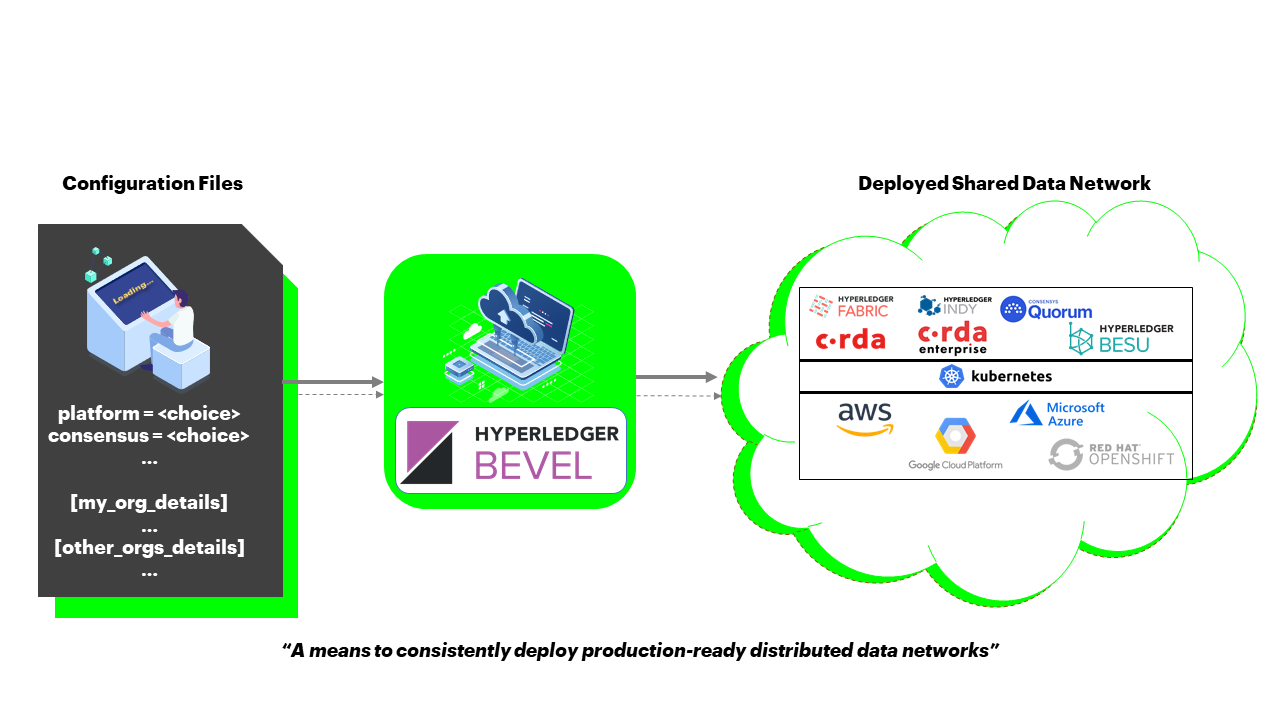
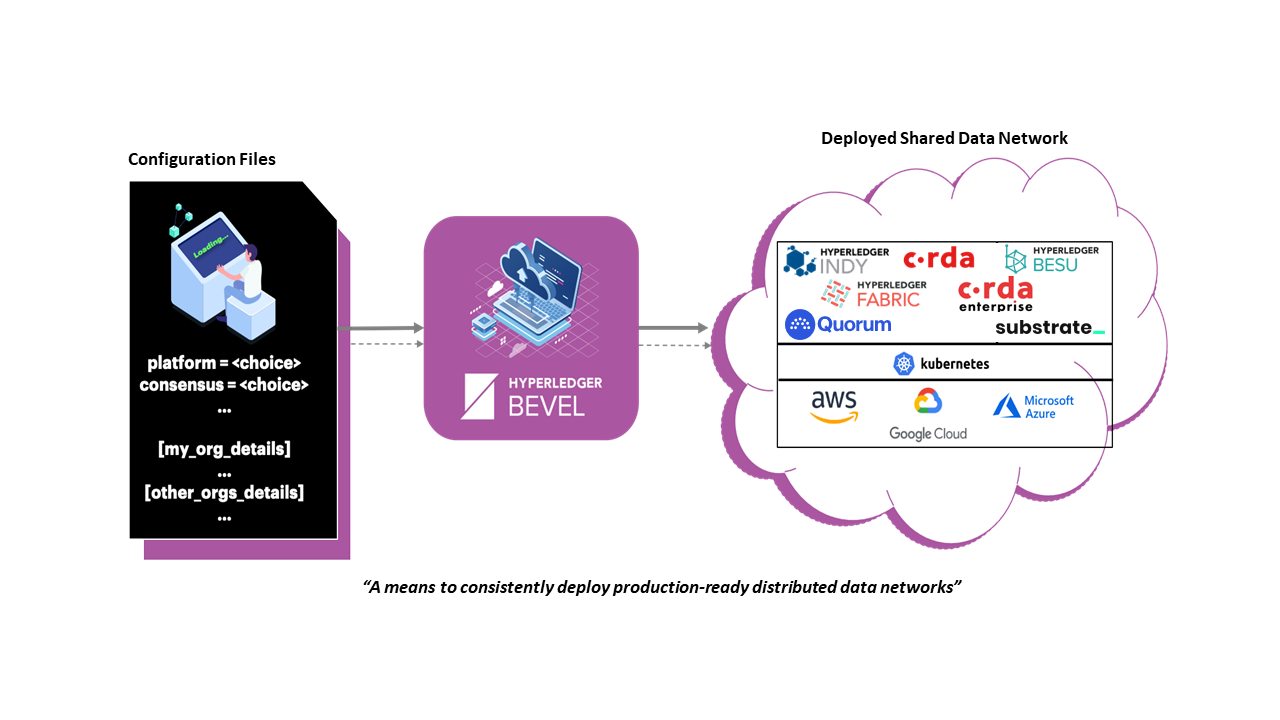
update readme

diff --git a/README.md b/README.md
@@ -1,7 +1,4 @@
 # Hyperledger Bevel [![join the chat][chat-image]][chat-url]
-<!-- ALL-CONTRIBUTORS-BADGE:START - Do not remove or modify this section -->
-[![All Contributors](https://img.shields.io/badge/all_contributors-6-orange.svg?style=flat-square)](#contributors-)
-<!-- ALL-CONTRIBUTORS-BADGE:END -->
 
 [chat-url]: https://discord.gg/hyperledger
 [chat-image]: https://img.shields.io/discord/905194001349627914?logo=Hyperledger&style=plastic.svg
@@ -31,9 +28,18 @@ Hyperledger Bevel delivers an automation framework for rapidly and consistently 
 
 ![What is Hyperledger Bevel?](./docs/images/hyperledger-bevel-overview.png "What is Hyperledger Bevel?")
 
-Hyperledger Bevel makes use of Ansible, Helm, and Kubernetes to deploy production DLT networks. Specifically, it makes use of Ansible for configuration of the network by DevOps Engineers. It then uses Helm charts as instructions for deploying the necessary components to Kubernetes. Kubernetes was chosen to allow for Hyperledger Bevel to deploy the DLT networks to any cloud that supports Kubernetes.
+Hyperledger Bevel is an accelerator/tool that helps developers rapidly set up and deploy secure, scalable and production-ready DLT network(s) that also allows new organizations to be easily on-boarded on the network. Bevel facilitates a safe and secure way of deploying and operating different DLT platforms.
 
-Hyperledger Bevel currently supports Corda, Hyperledger Fabric, Hyperledger Indy and Quorum. It is the intention to add support for Hyperledger Besu and Corda Enterprise in the near future. Other DLT platforms can easily be added.
+It includes: 
+- Helm charts to deploy different DLT nodes and to generate the related crypto/identities. 
+- Helm charts for various operational features like adding new nodes, and deploying smart contracts.
+- Helm charts to deploy Hyperledger Cacti connectors for Fabric, Quorum and Besu networks. 
+- Ansible playbooks and modular role definitions to automate the deployment of Helm charts.
+- Ansible playbooks and roles to automated deployment of Hyperledger fabric using  bevel-operator-fabric(Kubernetes operator for managing Hyperledger Fabric networks).
+- Integrated CD using GitOps so that once the network is set up, all changes can be done via git PRs/merges.
+- Configuration for Ambassador Edge Stack, HAProxy (for Hyperledger Fabric) and Isto Ingress (for Substrate) to act as Ingress Controller. 
+
+Hyperledger Bevel currently supports R3 Corda OS and Enterprise, Hyperledger Fabric, Hyperledger Indy, Hyperledger Besu, Quorum and Substrate. Other DLT platforms can easily be added.
 
 ### Getting Started
 
@@ -64,7 +70,7 @@ For Hyperledger Indy, we build Docker containers from our source code. A number 
 ![Hyperledger Bevel - Indy](./docs/images/hyperledger-bevel-indy.png "Hyperledger Bevel for Hyperledger Indy")
 
 ### Quorum
-For Quorum, we use the official Docker containers provided by Quorum. A number of different Ansible scripts will allow you to either create a new network (across clouds) with choice of Consensus (between IBFT and RAFT) and a choice of Transaction Manager (between Tessera and Constellation).
+For Quorum, we use the official Docker containers provided by Quorum. A number of different Ansible scripts will allow you to either create a new network (across clouds) with choice of Consensus (between IBFT and RAFT) and a transaction Manager.
 
 ![Hyperledger Bevel - Quorum](./docs/images/hyperledger-bevel-quorum.png "Hyperledger Bevel for Quorum")
 
@@ -85,10 +91,10 @@ Please review [contributing](./CONTRIBUTING.md) guidelines to get started.
 If you are not using the provided Jenkins automation scripts, you can run the provisioning scripts within a docker runtime independent from your target Kubernetes cluster.
 ```
 # Build provisioning image
-docker build . -t hyperledgerlabs/baf-build
+docker build . -t ghcr.io/hyperledger/bevel-build
 
 # Run the provisioning scripts
-docker run -it -v $(pwd):/home/bevel/ hyperledgerlabs/baf-build
+docker run -it -v $(pwd):/home/bevel/ ghcr.io/hyperledger/bevel-build
 ```
 
 ## Initial Committers
@@ -99,28 +105,3 @@ docker run -it -v $(pwd):/home/bevel/ hyperledgerlabs/baf-build
 
 ## Sponsor
 Mark Wagner (Github: [n1zyz](https://github.com/n1zyz), email: [mwagner@redhat.com](mailto:mwagner@redhat.com)) - TSC Member
-
-## Contributors ✨
-
-Thanks goes to these wonderful people ([emoji key](https://allcontributors.org/docs/en/emoji-key)):
-
-<!-- ALL-CONTRIBUTORS-LIST:START - Do not remove or modify this section -->
-<!-- prettier-ignore-start -->
-<!-- markdownlint-disable -->
-<table>
-  <tr>
-    <td align="center"><a href="https://github.com/alvaropicazo"><img src="https://avatars.githubusercontent.com/u/76157062?v=4?s=100" width="100px;" alt=""/><br /><sub><b>Alvaro Picazo</b></sub></a><br /><a href="#maintenance-alvaropicazo" title="Maintenance">🚧</a></td>
-    <td align="center"><a href="https://github.com/suvajit-sarkar"><img src="https://avatars.githubusercontent.com/u/55580532?v=4?s=100" width="100px;" alt=""/><br /><sub><b>Suvajit Sarkar</b></sub></a><br /><a href="https://github.com/hyperledger/bevel/commits?author=suvajit-sarkar" title="Code">💻</a> <a href="https://github.com/hyperledger/bevel/commits?author=suvajit-sarkar" title="Documentation">📖</a></td>
-    <td align="center"><a href="https://github.com/deepakkumardbd"><img src="https://avatars.githubusercontent.com/u/57094817?v=4?s=100" width="100px;" alt=""/><br /><sub><b>Deepak Kumar</b></sub></a><br /><a href="https://github.com/hyperledger/bevel/commits?author=deepakkumardbd" title="Code">💻</a></td>
-    <td align="center"><a href="https://github.com/jagpreetsinghsasan"><img src="https://avatars.githubusercontent.com/u/56861721?v=4?s=100" width="100px;" alt=""/><br /><sub><b>Jagpreet Singh Sasan</b></sub></a><br /><a href="https://github.com/hyperledger/bevel/commits?author=jagpreetsinghsasan" title="Code">💻</a> <a href="#maintenance-jagpreetsinghsasan" title="Maintenance">🚧</a></td>
-    <td align="center"><a href="https://github.com/angelaalagbe"><img src="https://avatars.githubusercontent.com/u/54588164?v=4?s=100" width="100px;" alt=""/><br /><sub><b>Angela.Alagbe</b></sub></a><br /><a href="https://github.com/hyperledger/bevel/commits?author=angelaalagbe" title="Documentation">📖</a> <a href="#content-angelaalagbe" title="Content">🖋</a></td>
-    <td align="center"><a href="https://github.com/mgCepeda"><img src="https://avatars.githubusercontent.com/u/83813093?v=4?s=100" width="100px;" alt=""/><br /><sub><b>Marina Gómez Cepeda</b></sub></a><br /><a href="https://github.com/hyperledger/bevel/commits?author=mgCepeda" title="Code">💻</a></td>
-  </tr>
-</table>
-
-<!-- markdownlint-restore -->
-<!-- prettier-ignore-end -->
-
-<!-- ALL-CONTRIBUTORS-LIST:END -->
-
-This project follows the [all-contributors](https://github.com/all-contributors/all-contributors) specification. Contributions of any kind welcome!
